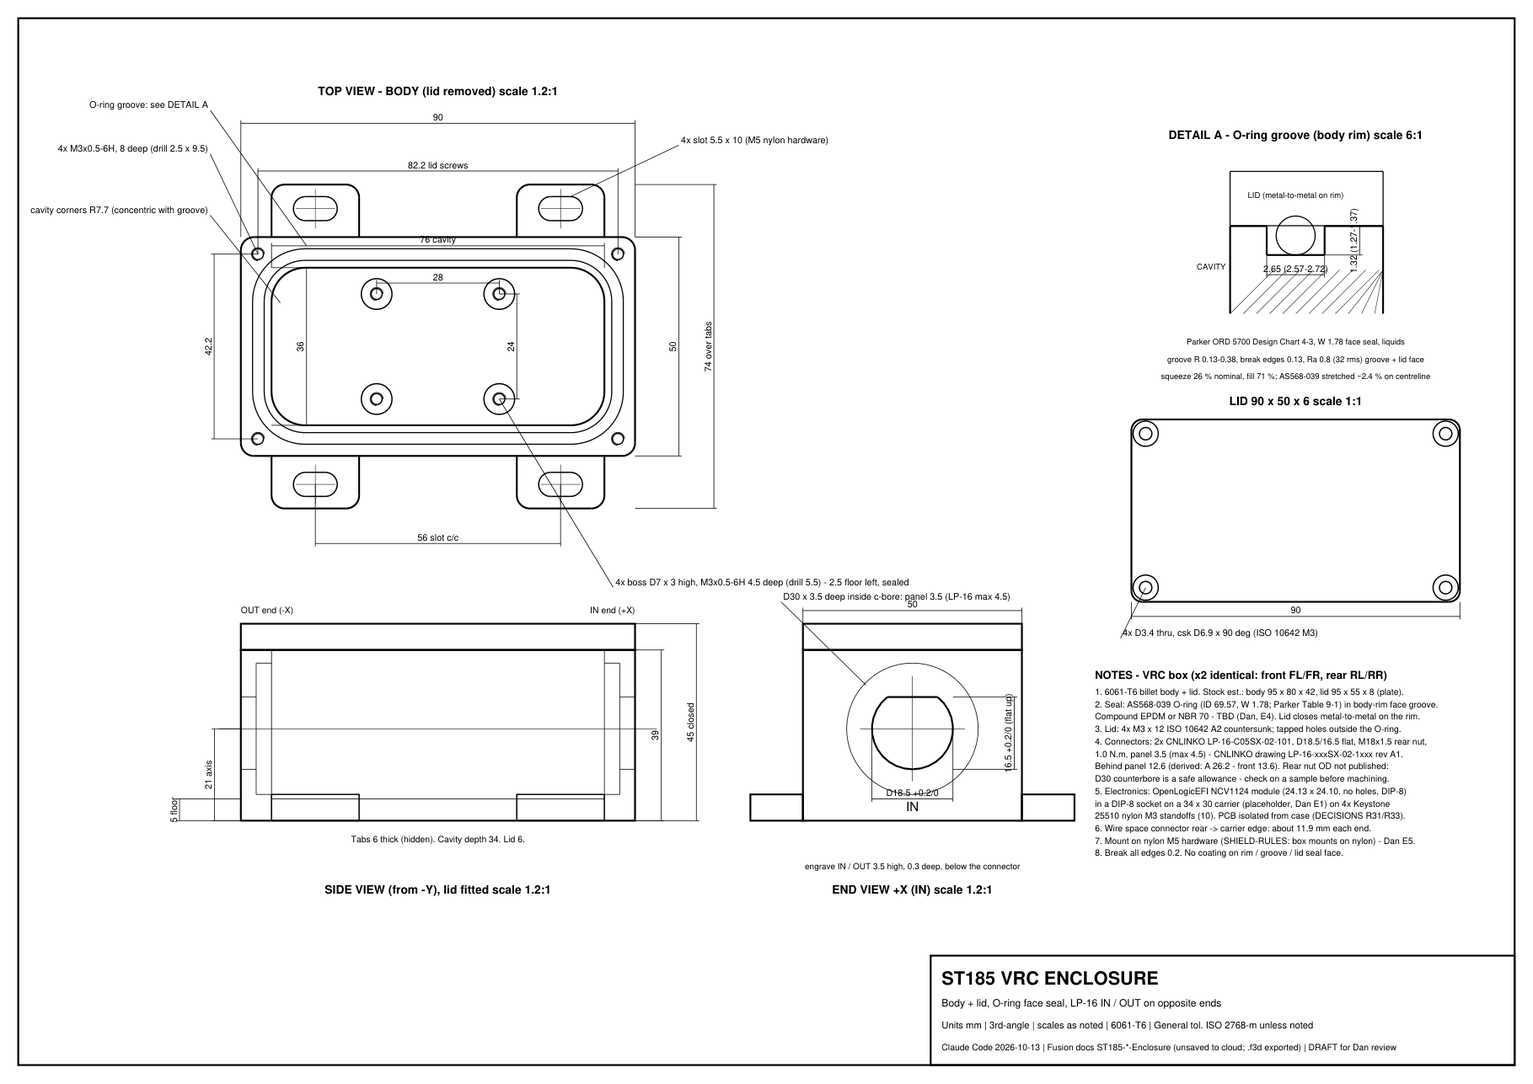
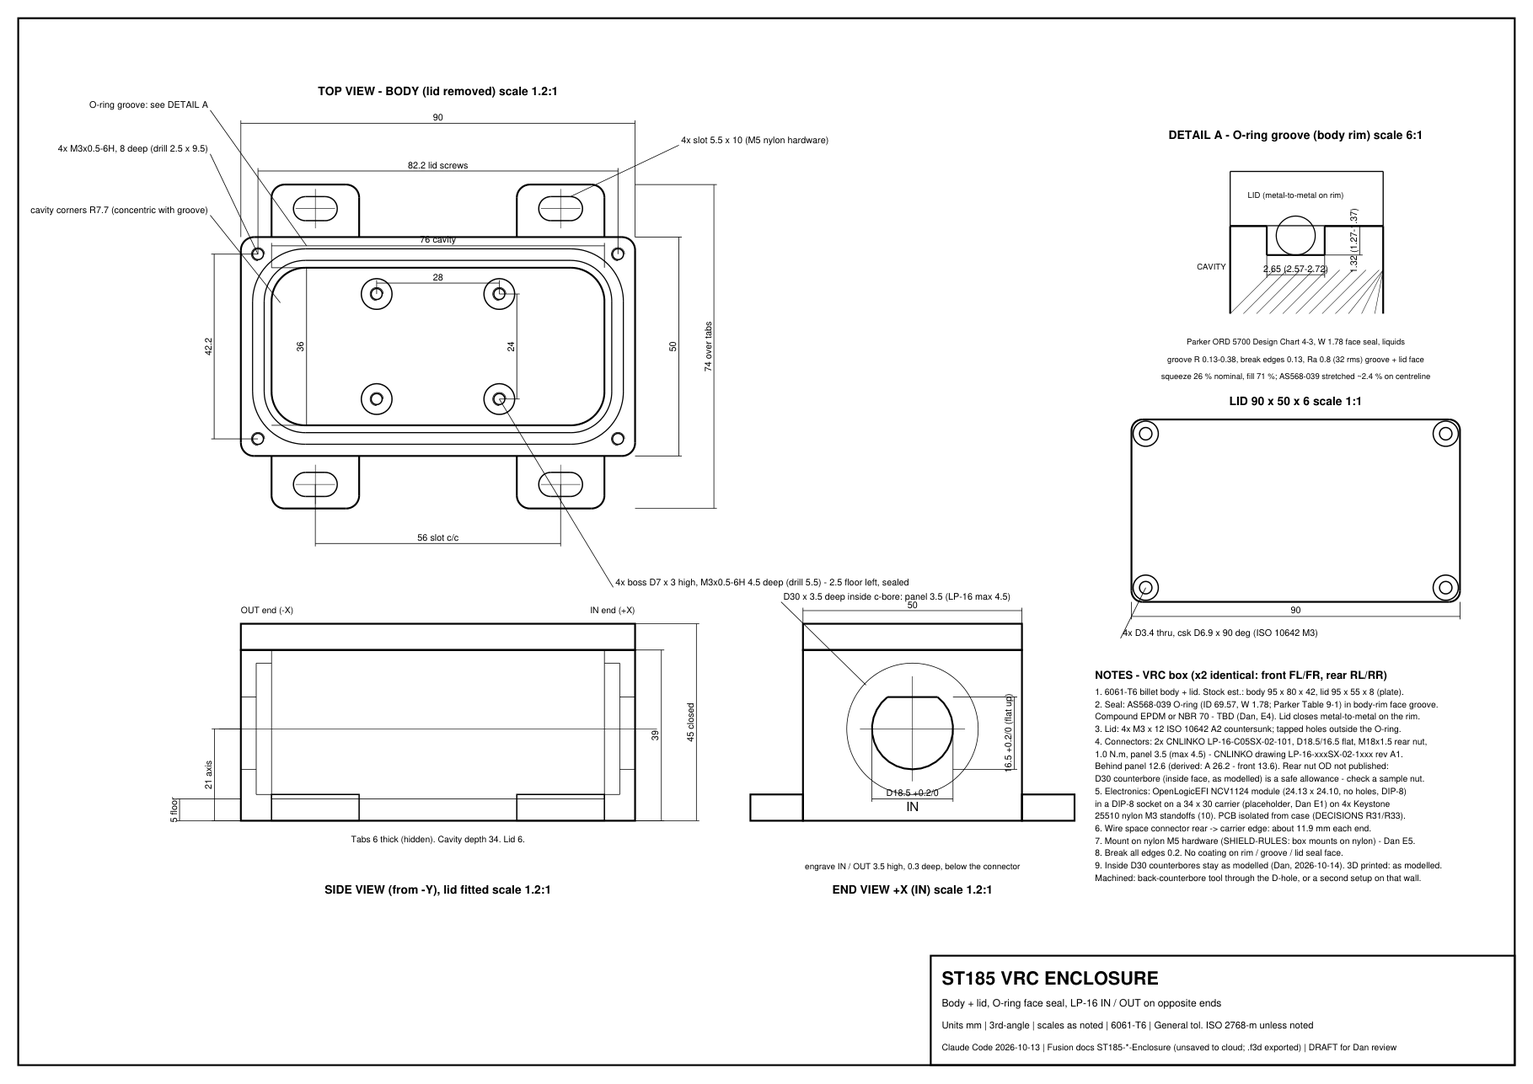
Close rows 60 and 114: gate non-ECU SoT endpoint rows; counterbores stay as modelled (#195)
Row 60 (Dan G1 = A, conditional - look for existing coverage first): the
endpoint pin list already exists as sot/channels.csv + interfaces.json
"endpoints", and ECU pins are already gated. The one gap - non-ECU SoT rows
(relays, MR-S EPS plug, VRC plugs) vs the drawings - is now validate_sot.py
PASS 4 (P1-P5) with three test_gates.py cases. It found and removed the
stale VRC_FRONT_OUT "shell-fr" row (no shells, S8 d); its fact moves to b17.

Row 114 (Dan G2): VRC inside D30 counterbores stay as modelled; printed =
as modelled, machined = back-counterbore tool or a second setup. Note on
the enclosure summary and the VRC drawing (SVG / PDF / preview).

DECISIONS S37 / S38.

Changed region(s): [[0.7389, 0.777, 0.9236, 0.8392], [0.7389, 0.7148, 0.9236, 0.7459]]

diff --git a/cad/enclosures/ST185-enclosures.html b/cad/enclosures/ST185-enclosures.html
@@ -94,7 +94,7 @@ code{font-size:13px}ul{padding-left:20px;margin:6px 0}li{margin:3px 0}
 <h2>Machining notes</h2>
 <div class="card"><ul>
 <li>3-axis mill. Body setup 1: outside, tabs and slots from the bottom. Setup 2: cavity (R7.7 corners, D12 cutter or smaller), groove (D2 cutter, two passes), tapped holes. Setup 3 (VRC): both end walls, D-holes.</li>
-<li>VRC inside D30 counterbores sit on the inside end walls. Cut them with a back-counterbore tool through the D-hole, or a right-angle head. Easier option: move the counterbore to the outside face (same 3.5 mm panel). Tell me and I'll flip it in the model.</li>
+<li>VRC inside D30 counterbores sit on the inside end walls and stay as modelled (Dan, 2026-10-14: the boxes may be 3D printed or machined, either can do it). <b>3D printed:</b> as modelled, no extra step. <b>Machined:</b> a back-counterbore tool through the D-hole, or a second setup on that end wall (right-angle head).</li>
 <li>Ra 0.8 on the groove, the lid underside and the CSB3 flange seat. Lid underside flat to 0.05.</li>
 <li>Threads M3x0.5-6H, 8 deep in the rim and 4.5 deep in the floor bosses (2.5 mm of floor left under each, no through holes).</li>
 <li>Clear anodize is fine: nothing bonds to the case (DECISIONS R31/R33). Keep the groove and seal faces uncoated or anodize-only.</li>

diff --git a/docs/harness/validate_sot.py b/docs/harness/validate_sot.py
@@ -24,6 +24,22 @@ PASS 2 - do the drawings agree with the SoT?
       drawings. Two conductors on one signal pin is two sources shorted
       together. Rails, grounds and screens are shared by design and exempt.
 
+PASS 4 - do the drawings agree with the SoT's NON-ECU endpoint rows (relays, the
+MR-S EPS plug, the VRC plugs, the A/C amps)? Added 2026-10-14 for OPEN-ITEMS row 60
+(the reconcile plan's "endpoint pin list"): the list already exists - the SoT rows
+plus interfaces.json "endpoints" (role -> cavity for the VRC plugs) - so this pass
+gates it instead of a second document.
+  P1  a row's conn resolves: a connector drawn in some loom, or an interfaces.json
+      endpoint; its pin is a cavity there (an endpoint's role name, or "c<pin>").
+      A conn that is neither (an OEM device on factory wiring or a flying lead,
+      gated by validate_oem_endpoints.py) is listed, not failed.
+  P2  a resolved row with status=set is wired in some drawing.
+  P3  signal-class rows with the same net reach each other (through splices,
+      bulkheads, inline pairs, broken-off wires and enclosures).
+  P4  a row whose net is also an ECU pin's net reaches that ECU pin.
+  P5  a signal-class row never reaches an ECU signal pin with a different net
+      (crossed or swapped pins).
+
 Exit 1 on any finding. Read-only - it changes nothing.
 """
 import csv, json, pathlib, sys, collections
@@ -204,6 +220,76 @@ for tr in _re.findall(r"<tr[^>]*>(.*?)</tr>", IO.read_text(encoding="utf-8"), _r
         if r and r["status"] not in ("spare", "nc"):
             bad("H1", "IO table calls %s.%s free (%r) but the SoT has it %s as %s"
                 % (key + (cells[3], r["status"], r["label"])))
+
+# ---------------------------------------------------------------- pass 4
+# Non-ECU endpoint rows vs the drawings (OPEN-ITEMS row 60, 2026-10-14).
+_reg = model.registry()
+_ds = model.docs(_reg)
+_g = model.Graph(_reg, _ds)
+_drawn = {}
+for _loom, _d in _ds.items():
+    for _c in _d.get("connectors", []):
+        if not _c["id"].startswith("dm_") and not model.is_xref(_c):
+            _drawn.setdefault(_c["id"], (_loom, _c))
+_endpoints = {e["id"]: e for e in _reg.get("endpoints", []) if e.get("connector")}
+_THROUGH = ("SP", "BH", "IX", "BRK", "ENC")
+_ecu_net = collections.defaultdict(set)
+for r in rows:
+    if r["owner"] == "ECU" and r["net"] and r["status"] not in ("spare", "nc"):
+        _ecu_net[r["net"]].add(("ECU", r["conn"], r["pin"]))
+_ecu_sig = {("ECU", r["conn"], r["pin"]): r["net"] for r in rows
+            if r["owner"] == "ECU" and r["class"] == "signal" and r["net"]}
+
+
+def _resolve(r):
+    """(connector id, cavity id) for an endpoint row, or None if the conn is not drawn."""
+    if r["conn"] in _drawn:
+        return r["conn"], r["pin"]
+    ep = _endpoints.get(r["conn"])
+    if ep:
+        return ep["connector"], ep.get("pins", {}).get(r["pin"]) or "c" + r["pin"]
+    return None
+
+
+unresolved = []
+_nets = collections.defaultdict(list)
+for r in rows:
+    if r["owner"] == "ECU" or r["status"] in ("spare", "nc"):
+        continue
+    hit = _resolve(r)
+    if not hit:
+        unresolved.append("%s %s.%s" % (r["owner"], r["conn"], r["pin"]))
+        continue
+    conn, cav = hit
+    loom, c = _drawn.get(conn, (None, None))
+    if not c or cav not in {x["id"] for x in c.get("cavities", [])}:
+        bad("P1", "%s.%s (%s) -> %s.%s is not a drawn cavity" % (r["conn"], r["pin"], r["net"], conn, cav))
+        continue
+    node = _g.node(loom, {"id": conn, "handle": cav})
+    if node not in _g.adj:
+        bad("P2", "%s.%s (%s) is set in the SoT but %s.%s is wired in no drawing"
+            % (r["conn"], r["pin"], r["net"], conn, cav))
+        continue
+    net = _g.reach(node, stop=lambda m: m[0] not in _THROUGH)
+    want = _ecu_net.get(r["net"])
+    if want and not (want & net):
+        bad("P4", "%s.%s (%s) never reaches ECU %s" % (r["conn"], r["pin"], r["net"],
+            "/".join(sorted(p[2].upper() for p in want))))
+    if r["class"] == "signal":
+        _nets[r["net"]].append((r, node, net))
+        for m in net:
+            other = _ecu_sig.get(m)
+            if other and other != r["net"]:
+                bad("P5", "%s.%s (%s) reaches ECU %s, which the SoT calls %s"
+                    % (r["conn"], r["pin"], r["net"], m[2].upper(), other))
+for _net, lst in _nets.items():
+    for i, (a, na, ra) in enumerate(lst):
+        for b, nb, rb in lst[i + 1:]:
+            if nb not in ra:
+                bad("P3", "%s.%s and %s.%s are both %s in the SoT but are not joined in the drawings"
+                    % (a["conn"], a["pin"], b["conn"], b["pin"], _net))
+if unresolved:
+    print("P1 listed (conn not drawn - factory wiring or OEM flying leads): " + ", ".join(unresolved))
 
 # ---------------------------------------------------------------- report
 if findings:

diff --git a/docs/harness/test_gates.py b/docs/harness/test_gates.py
@@ -25,6 +25,7 @@ def sandbox():
     shutil.copytree(HERE, os.path.join(d, "docs", "harness"),
                     ignore=shutil.ignore_patterns("__pycache__"))
     shutil.copytree(os.path.join(ROOT, "sot"), os.path.join(d, "sot"))
+    shutil.copy(os.path.join(ROOT, "XTREMEX-IO-TABLE.html"), d)   # validate_sot.py H1 reads it
     return d
 
 
@@ -75,6 +76,18 @@ def run(d, script):
     r = subprocess.run([sys.executable, "-B", script], cwd=os.path.join(d, "docs", "harness"),
                        capture_output=True, text=True)
     return r.returncode, r.stdout
+
+
+def swap_cavities(d, loom, conn, a, b):
+    """Swap every conductor end on conn.a with conn.b (a crossed pair at a device plug)."""
+    p, doc = load(d, loom)
+    pool = doc.get("wires", []) + [c for cb in doc.get("cables", []) for c in cb.get("cores", [])]
+    for w in pool:
+        for k in ("source", "target"):
+            e = w.get(k) or {}
+            if e.get("id") == conn and e.get("handle") in (a, b):
+                e["handle"] = b if e["handle"] == a else a
+    save(p, doc)
 
 
 CASES = []
@@ -194,6 +207,21 @@ def unit_cases():
         got = bhc.judge(ends, "") is None
         out.append((name, ok, got))
     return out
+
+
+@case("SoT endpoint rows: drawings as committed", "validate_sot.py", 0)
+def _(d):
+    pass
+
+
+@case("SoT endpoint rows: k_eps_en coil- (B12) and coil+ (SW12) swapped", "validate_sot.py", 1)
+def _(d):
+    swap_cavities(d, "CabinPower", "k_eps_en", "c2", "c3")
+
+
+@case("SoT endpoint rows: front VRC OUT FL / FR crossed at the plug", "validate_sot.py", 1)
+def _(d):
+    swap_cavities(d, "WheelSpeed-Front", "lp16_vrc_f_out", "c3", "c4")
 
 
 def main():

diff --git a/docs/OPEN-ITEMS.md b/docs/OPEN-ITEMS.md
@@ -18,8 +18,8 @@ Bucket = Area column (Research counts as Harness wiring; Tooling / Docs as House
 
 | Bucket | Open | In plain words | Car zones |
 |---|---|---|---|
-| Harness wiring | 11 | Drawings and wire facts: the R2 / R3 colours, maker contact data, the CSB3 +12V feed, the VRC boxes' dash fit, the endpoint pin list, a visual drawing check, the route drawings still showing the old fuse box (row 111) and the CabinPower notes for the fuse box rev 6 jumpers (row 113). Eight rows closed by Dispatch decisions on 2026-10-14 (DECISIONS S28-S36). | bay, firewall, dash, glove, floor, rear, trunk |
-| Parts | 7 | Part numbers and test-fits: the bus bar parts (design B rev3 picked, row 88), the fuse box CAD rev 6 review (row 107), DRB sealing plugs, rear lamp plugs, and the enclosure follow-ups now the machined boxes are adopted (rows 97, 98, 114). | glove, dash, rear, trunk |
+| Harness wiring | 10 | Drawings and wire facts: the R2 / R3 colours, maker contact data, the CSB3 +12V feed, the VRC boxes' dash fit, a visual drawing check, the route drawings still showing the old fuse box (row 111) and the CabinPower notes for the fuse box rev 6 jumpers (row 113). Rows closed on 2026-10-14 by Dispatch decisions (DECISIONS S28-S36) and Dan's G1 (row 60, S37). | bay, firewall, dash, glove, floor, rear, trunk |
+| Parts | 6 | Part numbers and test-fits: the bus bar parts (design B rev3 picked, row 88), the fuse box CAD rev 6 review (row 107), DRB sealing plugs, rear lamp plugs, and the enclosure follow-ups now the machined boxes are adopted (rows 97, 98). | glove, dash, rear, trunk |
 | CAN | 3 | The scale / unit flags left from the CAN audit, the knock warning timing (row 102), and the cluster reflash after the N1 rounding fix. | dash |
 | RealDash | 3 | Checks that need the Pi or the bench: which .rd file is live, real-frame test, headless editor limit. | dash |
 | Tune-ECU setup-time | 13 | Done on the bench when the ECU and CSB3 arrive: PCLink imports, tables, outputs, live checks. CAN config itself is written now (R80). | bay, dash |
@@ -82,7 +82,7 @@ Blocks progress:
 | 57 | Wiring | Front wheel-speed sensors: keep the factory sensor plugs? | Daniel | `docs/harness/routes/ROUTE-9-WHEELSPEED-FRONT.html` | Closed 2026-10-11 (Daniel: designer's choice) | Recorded as S3 in `docs/harness/redesign/DECISIONS.md`: DT 2-way at each front sensor, as drawn. |
 | 58 | Wiring | DTM seal rule: shielded-cable cores must be at least 1.35 mm OD (M22759/16 medium wall) to seal in DTM - make it a written rule? | Daniel | reconcile plan §17 (decision 24) | Closed 2026-10-11 (Daniel) | Built-in seals on every DTM connector; no extra rule (DECISIONS S5). |
 | 59 | Wiring | Heavy cable size: H5 alternator B+ 2 AWG (or 4 AWG)? | Daniel | `docs/harness/routes/ROUTE-1-HEAVYDC.html`, `ST185-HeavyDC.harness` | Closed 2026-10-11 (calculated) | H5 stays 2 AWG: ~0.16 V drop at 160 A over ~1.5 m hot (DECISIONS S6). |
-| 60 | Harness | Endpoint pin list (reconcile plan §8): one authored `docs/harness/ENDPOINT-PIN-LIST.md` (from the SoT, EWD and datasheets, one section per complex endpoint) plus a `validate_endpoints.py` gate that checks the drawings against it. Not approved, not started. | Daniel | reconcile plan §8 | Open - decision (Dispatch question Q-60, 2026-10-14) | Daniel approves the design; then author the list and the gate. |
+| 60 | Harness | Endpoint pin list (reconcile plan §8): one authored `docs/harness/ENDPOINT-PIN-LIST.md` (from the SoT, EWD and datasheets, one section per complex endpoint) plus a `validate_endpoints.py` gate that checks the drawings against it. Not approved, not started. | Daniel | reconcile plan §8 | Closed 2026-10-14 (Dan G1 = A, conditional; DECISIONS S37) | Existing coverage searched first: the pin list already exists as `sot/channels.csv` + `interfaces.json` "endpoints", and ECU pins are already gated (validate_sot D1-D4, verify_connectivity, audit_mating + DRB102-CAVITY-MAP, validate_interfaces I9). No new doc or gate: the missing check - non-ECU SoT rows (relays, MR-S EPS, VRC plugs) vs the drawings - is `validate_sot.py` PASS 4 (P1-P5) with 3 self-tests. It removed one stale row (VRC_FRONT_OUT `shell-fr`). |
 | 61 | Wiring | AntiTheft spots still open: hood-pin switch, cabin ground stud, park-lamp flash relay source, door-trigger splice. Optional: siren through a spare bulkhead B size-16 position instead of the existing factory RH fender grommet. | Daniel | `docs/harness/routes/ROUTE-14-ANTITHEFT.html`, row 51 | Closed 2026-10-14 (decided by Dispatch 2026-10-14, DECISIONS S29) | Route 14 was approved as drawn, so the drawn spots stand; the siren stays through the existing RH fender grommet and the bulkhead B alternative is dropped. |
 | 62 | Wiring | Front-door power-fold mirror spare-pin count. | Daniel | reconcile plan §2.1 | Deferred (Daniel, 2026-10-03) | Only if the mirrors are fitted. |
 | 63 | Research | Self-research left from the reconcile plan: R2/R3 RH colours (EWD scan faint); the wiper / washer motor pins are done (F9 / W1, R53 / S19). Retract-motor pins are answered by S20 (EWD p.117: pin 4 feed, 5 ground, 2 relay coil, 1 / 3 limit sense; #122). EWD pages for the CSB3 / ClusterLED leads are row 11. | Agent | reconcile plan §36.5 / §40.1; DECISIONS S20 | Open - RH colours only (retract pins closed by S20; wiper / washer pins closed: F9 pins 1-4 and W1 pins 1-2 with colours are filled in `interfaces.json` from 1993 EWD p.148, checked 2026-10-14) | Read 1993 EWD p.117 for the R2 / R3 RH colours (`FL_R3_C3` and `FL_R3_C4` both say G-Y and `FL_R2_C2` G-O vs `FL_R3_C2` G-B, so a transcription slip is possible) in (`C:\projects\active\st185-celica-repair-manual`) for the colours. |
@@ -130,7 +130,7 @@ Blocks progress:
 | 112 | Wiring | `k_fp` coil + choice made in the redraw (row 108): kept on the switched SW12 rail (as before), so a second coil wire runs glove box -> trunk beside A19. Option: feed coil + inside the battery block from the FP fuse (one wire less, but the coil is then live with the key off). | Daniel | `ST185-HeavyDC` `k_fp` c3 / `br_fp86`; `ST185-CabinPower` `w_k_fp_86_cp` | Closed 2026-10-14 (decided by Dispatch 2026-10-14, DECISIONS S36) | `k_fp` coil + stays on SW12, as drawn. |
 | 107 | Parts | Custom fuse + relay boxes CAD rev 6 (R70-R76, R79, R81, R82, R85) is ready for Daniel's review: LOGIC box 79 x 181 x 89.9 + POWER box 180.5 x 181 x 81.8 in the glove box, battery relay block 184 x 92 x 54 (228 with the end tabs) in the trunk. Rev 6 = rev 5 plus Dan's parts answers (DECISIONS R85): M6 limiters EFC 10S00056 / 10S00052 at every mount point (C1); mount bolts / nuts out of the box lists (C3); every LOGIC fuse input is a 14 AWG jumper - TE 880398-2 receptacle + TE PIDG 53941-1 ring lug bolted (M4) to its bus strip; the strips stand on edge between the fuse columns, either side of a printed spine, so the deck is 18.5 mm higher (C4); one 40 mm standoff part, 14 in the POWER box, none in LOGIC (B5). No interference, no cable touching plastic, every bend OK (Fusion `ST185_fusebox_rev6`). Parts (R82): every line of the three lists `cad/fusebox/fusebox-parts-*.csv` is a real part with a live link (`parts_lists.py --check` green). Still to check at the first build, not blocking approval: the PIDG 53941-1 ring / sleeve size (TE page gives length and tongue only) and the heater pocket against the TE F4 A drawing; terminal cavity detail after approval. Harness redraws that follow: row 113. | Daniel | `cad/fusebox/ST185-fusebox-summary.html`; DECISIONS R82, R85 | Open | Daniel's review / approval of rev 6 and the parts order. |
 | 113 | Wiring | Harness drawings to follow fuse box CAD rev 6 (DECISIONS R85) - not edited in the CAD PR: (1) `ST185-CabinPower` `fb_logic`: the 19 fuse inputs (Bus 1 / Bus 2) are box-internal jumpers (TE 880398-2 + PIDG 53941-1 on the strip), not harness cavities - say so in the cavity notes; Bus 1 takes its inputs on the +x blade, Bus 2 on the -x blade (CAD slot map); cavities `b1` / `b2` (feed lugs, Klauke 2R5) now bolt to the strip face, the Bus 1 feed leaves the LOGIC box FRONT edge and the Bus 2 feed the rear (route length / break-off text), no standoffs. (2) `ST185-CabinPower` `fb_power` label text: "cad/fusebox rev 5" -> rev 6; the OUT-row cables leave under the skirt (low), not under the lid. (3) If the library carries the fuse box internals, add PIDG 53941-1 to `ST185.harnesslib` first (R39 / the part library is the master). Then regenerate the build / buy lists. | Agent | `cad/fusebox/ST185-fusebox-summary.html` (Rev 6 section, slot map); DECISIONS R85 | Open | Daniel's approval of rev 6 (row 107), then the CabinPower redraw. |
-| 114 | Parts | VRC box: the inside D30 counterbores at each LP-16 D-hole need a back-counterbore tool through the D-hole (or a right-angle head). Option: move them to the outside face (same 3.5 mm panel). | Daniel | `cad/enclosures/ST185-enclosures.html` "Machining notes"; split from row 94 (2026-10-14) | Open - question (Dispatch is asking Dan) | Daniel: keep inside (back-counterbore) or flip to the outside face; then update the Fusion model and drawing. |
+| 114 | Parts | VRC box: the inside D30 counterbores at each LP-16 D-hole need a back-counterbore tool through the D-hole (or a right-angle head). Option: move them to the outside face (same 3.5 mm panel). | Daniel | `cad/enclosures/ST185-enclosures.html` "Machining notes"; split from row 94 (2026-10-14) | Closed 2026-10-14 (Dan G2; DECISIONS S38) | Kept inside, as modelled - no model change. Note added to the enclosure summary and the VRC drawing (note 9): 3D printed = as modelled; machined = back-counterbore tool through the D-hole or a second setup. |
 
 
 ## Setup-time (ECU, PCLink, RealDash, CSB3)
@@ -167,6 +167,7 @@ redesign and the check_all/check_parity/validate_tune/test_gates CI gates alread
 
 ## History
 
+- 2026-10-14 - Rows 60 and 114 closed (branch `harness/row60-row114`, Dan G1 / G2; DECISIONS S37 / S38): the endpoint pin list already existed (SoT + `interfaces.json` endpoints), so `validate_sot.py` gained PASS 4 for the non-ECU SoT rows instead of a new doc / gate; stale SoT row VRC_FRONT_OUT `shell-fr` removed. VRC inside counterbores stay as modelled; printed / machined note on the summary and drawing. -- Claude Code
 - 2026-10-14 - Dispatch decisions applied (branch `harness/close-decided-rows`, rule: obvious choices are decided, not asked; DECISIONS S28-S36): closed 41 (B31 10k / 3.9k divider, B32 2.2k pull-up), 61 (Route 14 as drawn, siren via RH fender grommet), 71 (VRC-IN / VRC-OUT printed labels + blue / yellow bands), 80 (own spares N/C with their sealing plug; gates updated), 94 + 64 + 75 (machined enclosures adopted, `docs/enclosures/` rewritten), 105, 106, 109 (bay TW run deleted, bulkhead A c37 / c38 freed), 112. New row 114 (VRC counterbore face). -- Claude Code
 - 2026-10-14 - Fuse box CAD rev 6 (branch `cad/fusebox-rev6`, DECISIONS R85): Dan's last parts answers - M6 limiters everywhere (C1), mount hardware out of the box lists (C3), mini fuse input jumpers on bus strips on edge with a printed spine (C4, replaces the "stud fuses" answer: no stud fuse under 30 A fits), one 40 mm standoff (B5); row 110 closed, row 107 to Dan for approval, row 113 = the harness follow-ups. Fusion `ST185_fusebox_rev5` reused, renamed `ST185_fusebox_rev6`. -- Claude Code
 - 2026-10-14 - Every open-items list on the research hub brought current (branch `docs/hub-open-lists`, Dan: "update all open items lists"): Status table words and counts; row 107 moved out of the setup-time table so it counts under Parts; rows 26 / 27 owner -> Agent (datasheet copying, not a decision); `docs/status/questions.json` stays empty; the "Your decision" boxes on Routes 2-7 and 9-14 now read Answered (Dan, 2026-10-14); Route 1 H5 label no longer says pending (S6); the fuse box summary's open list separates what still needs Dan from decided items and CAD follow-up; `cad/README.md` fuse box rev 5 status says not approved until every part is buyable. -- Claude Code

diff --git a/docs/harness/redesign/DECISIONS.md b/docs/harness/redesign/DECISIONS.md
@@ -581,6 +581,8 @@ there as rows.
 | S34 | **Relay coil feeds (a) and (c) confirmed as drawn** (decided by Dispatch 2026-10-14, OPEN-ITEMS row 106): HEAD LH / RH and horn coil+ from each relay's own LOGIC fuse output; `k_pwr` coil- to the glove-box PDB ground bus. | `ST185-CabinPower` (no change). |
 | S35 | **TW stays on factory dash wiring** (decided by Dispatch 2026-10-14, OPEN-ITEMS row 109): the A25 water temp sensor is on the heater unit in the dash (1993 EWD p.219 -> p.32), wired to the amp by the factory cowl wire, so the engine-bay `ac_cts` run is deleted: `ac_cts` / `cp_ac_cts` / `w_accts_*_e` (A-engine), `w_accts_*_c` / `fl_acamp_tw` / `fl_acamp_sg` (A-cabin), FL_ACAMP_TW / FL_ACAMP_SG (`interfaces.json`). Bulkhead A c37 / c38 (DRB 45 / 46) are spares again. | `sot/channels.csv` TW_SIG / TW_RTN, `ST185-A-engine`, `ST185-A-cabin`, `ST185-EngineRoom-C` A/C note. |
 | S36 | **`k_fp` coil+ stays on SW12** (decided by Dispatch 2026-10-14, OPEN-ITEMS row 112): no in-block feed, so the coil is dead with the key off. | `ST185-HeavyDC` / `ST185-CabinPower` (no change). |
+| S37 | **Endpoint pin list = the SoT + interfaces.json, gated** (Dan 2026-10-14, G1 = A conditional: "if it doesn't already exist. look for similar existing already first"; OPEN-ITEMS row 60). Existing coverage was searched first: ECU pins are already gated by `validate_sot.py` D1-D4, `verify_connectivity.py` C1-C4, `audit_mating.py` M1-M8 (with `DRB102-CAVITY-MAP.md`), `validate_interfaces.py` I9 and `validate_bulkhead_letter.py`; OEM flying leads by `validate_oem_endpoints.py`; the complex-endpoint role -> cavity map (VRC LP-16 plugs) already lives in `interfaces.json` "endpoints". So no `ENDPOINT-PIN-LIST.md` and no new `validate_endpoints.py`: the one gap - nothing checked the NON-ECU SoT rows (relays, MR-S EPS plug, VRC plugs) against the drawings - is a new PASS 4 in `validate_sot.py` (P1 row resolves to a drawn cavity, P2 set rows are wired, P3 same-net signal pins joined, P4 a net shared with an ECU pin reaches it, P5 no crossed pins), with three `test_gates.py` cases. It found one stale row: VRC_FRONT_OUT `shell-fr` (no connector shells, S8 d) - removed; the FR spur screen it described is noted on the b17 row. | `docs/harness/validate_sot.py` PASS 4, `docs/harness/test_gates.py`, `sot/channels.csv` b17. |
+| S38 | **VRC inside D30 counterbores stay as modelled** (Dan 2026-10-14, G2: "why can't it be built into the model? these may be 3d printed or machined. either can do it"; OPEN-ITEMS row 114). No model change. 3D printed: as modelled; machined: a back-counterbore tool through the D-hole, or a second setup on that end wall. | `cad/enclosures/ST185-enclosures.html` machining notes, `cad/enclosures/vrc/ST185-VRC-enclosure-drawing` note 9 (SVG / PDF / preview). |
 
 ## Harness reconcile plan (2026-09-29 to 2026-10-11) - retired 2026-10-11
 
